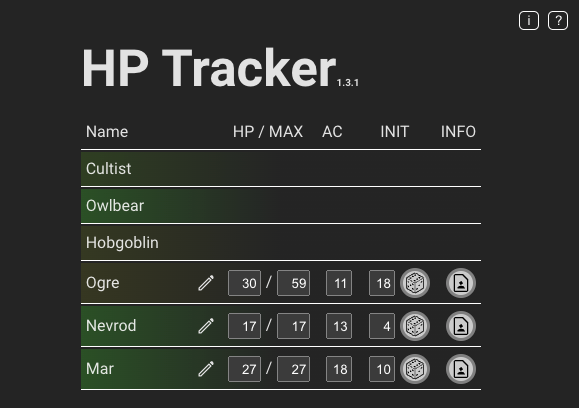
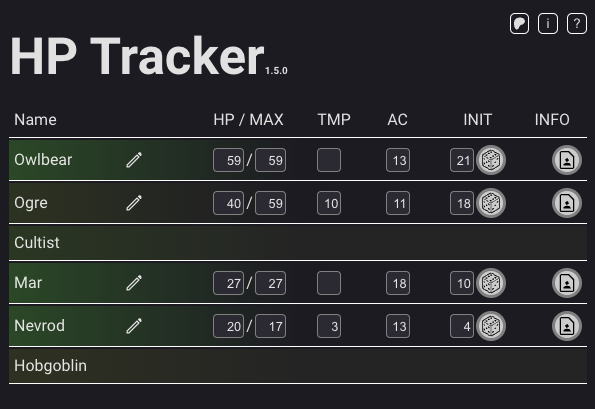
Improve styling for embeded popover

Changed region(s): [[0.0, 0.2647, 0.9948, 0.9706], [0.0, 0.0882, 0.6218, 0.2353], [0.8394, 0.0294, 0.9948, 0.0882]]

diff --git a/src/css/components/_popover.scss b/src/css/components/_popover.scss
@@ -1,3 +1,7 @@
+body:has(.popover-app) {
+    overflow: hidden;
+}
+
 #app {
     .multiselection {
         display: flex;
@@ -11,7 +15,7 @@
         margin: 0;
         padding: 0;
         width: 100%;
-        height: 100%;
+        height: 100px;
 
         .popover-spinner {
             margin: auto;
@@ -21,23 +25,30 @@
         }
 
         .popover {
+            height: 100%;
+            overflow: hidden;
             .player-wrapper {
-                display: flex;
+                display: grid;
+                grid-template-areas:
+                    "hp temp"
+                    "ac init"
+                    "settings settings";
                 column-gap: 1ch;
                 row-gap: 2px;
-                flex-wrap: wrap;
                 justify-content: space-between;
                 border-bottom: none;
                 padding: 10px 10px;
-                height: 80px;
+                height: calc(100% - 20px);
 
                 .settings {
-                    order: 2;
+                    grid-area: settings;
+                    justify-self: center;
                 }
 
                 .current-hp {
+                    grid-area: hp;
                     align-items: center;
-                    order: 0;
+
                     &::before {
                         display: block;
                         margin: 0;
@@ -46,9 +57,15 @@
                     }
                 }
 
+                .temp-hp {
+                    grid-area: temp;
+                    justify-self: flex-end;
+                    white-space: nowrap;
+                }
+
                 .armor-class {
+                    grid-area: ac;
                     align-items: center;
-                    order: 3;
                     min-width: unset;
 
                     &::before {
@@ -59,15 +76,17 @@
                 }
 
                 .initiative-wrapper {
+                    grid-area: init;
+                    flex-direction: row-reverse;
                     align-items: center;
-                    order: 1;
+                    justify-self: flex-end;
                     width: auto;
 
-                    .toggle-button {
+                    &::before {
                         display: none;
                     }
 
-                    &::before {
+                    &::after {
                         display: block;
                         min-width: 26px;
                         content: "Init: ";

diff --git a/USAGE.md b/USAGE.md
@@ -165,7 +165,7 @@ Values can be changed in a few different ways:
 + Arrow Keys: when focus is on HP, maxHP, tempHP or AC you can increase or decrease the values by 1 by pressing up or down arrow key respectively
 + Entering a number: when focused on any field, you can delete its content and enter a new value. 
   + Note that changing the maxHP or tempHP field influences the HP field.
-+ Rolling Initiative: When clicking the Initiative Button a random number between 1 and the chosen [Initiative Dice](#global-settings) (default: 20) is rolled and the dexterity modifier (5e) or perception (pf2e) from the [Statblock](#statblock) (if selected) is added and entered as the final initiative value.
++ Rolling Initiative: When clicking the Initiative Button a random number between 1 and the chosen [Initiative Dice](#global-settings) (default: 20) is rolled and the dexterity modifier (5e) or perception (pf2e) from the [Statblock](#statblock) (if selected) is added and entered as the final initiative value. You can also change the initiative bonus to any number, once a statblock is assigned
 
 **Note: The HP value can never exceed the maxHP value ([except when maxHP is 0](#initializing-token)). It can also not be a negative number if the [Global Setting](#global-settings) for "Allow negative numbers" is not selected. All symbols except numbers will be removed to maintain a compatible value.**
 
@@ -200,17 +200,17 @@ By clicking on one of the options this statblock is selected for the Token. If t
 
 ![Statblock Selected](https://raw.githubusercontent.com/kamejosh/owlbear-hp-tracker/master/docs/statblock_selected.png)
 
-The statblock shows all the creature information including available spells and spell detailed spell information.
+The statblock shows all the creature information including available spells and detailed spell information.
 
 #### Player Action Window
 
 ![Player Action Window](https://raw.githubusercontent.com/kamejosh/owlbear-hp-tracker/master/docs/player_action_window.png)
 
-The Player Action Window has reduced functionality compared to the GM Action Window. Tokens that have either the HP Bar or Player Visibility enabled show up in this window. Items that are invisible (hidden) within the scene don't show up here!
+The Player Action Window has reduced functionality compared to the GM Action Window. Tokens that have either the HP Bar or Player Visibility enabled show up in this window. Tokens that are invisible (hidden) within the scene don't show up here!
 
 For tokens that have the Player Visibility set, their name change option, values, and statblock are shown. Otherwise just the dynamic-color background is there to indicate the current status of the creature.
 
-Tokens don't follow the drag and drop order in the [GM Action Window](#hp-tracker-action-window). But when activated in the [Settings](#global-settings) Tokens will be ordered by their initiative value.
+Tokens don't follow the drag and drop order in the [GM Action Window](#hp-tracker-action-window). But when activated in the [Settings](#global-settings) Tokens will be ordered by their initiative value, disregarding which group they belong to.
 
 ### HP Tracker Context Item
 
